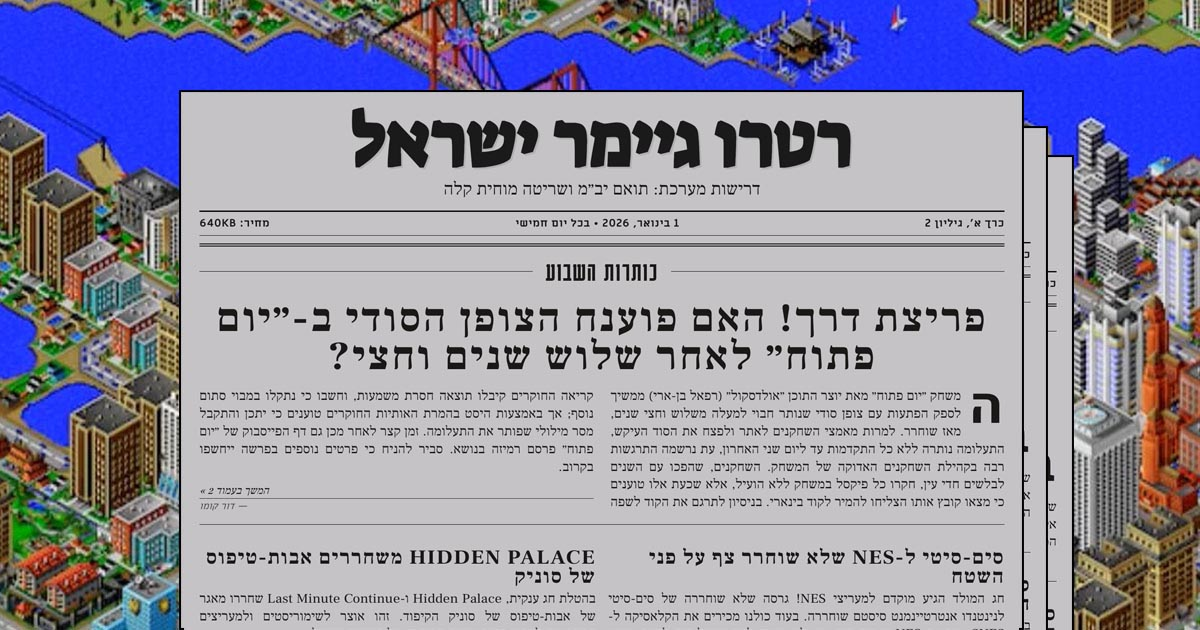
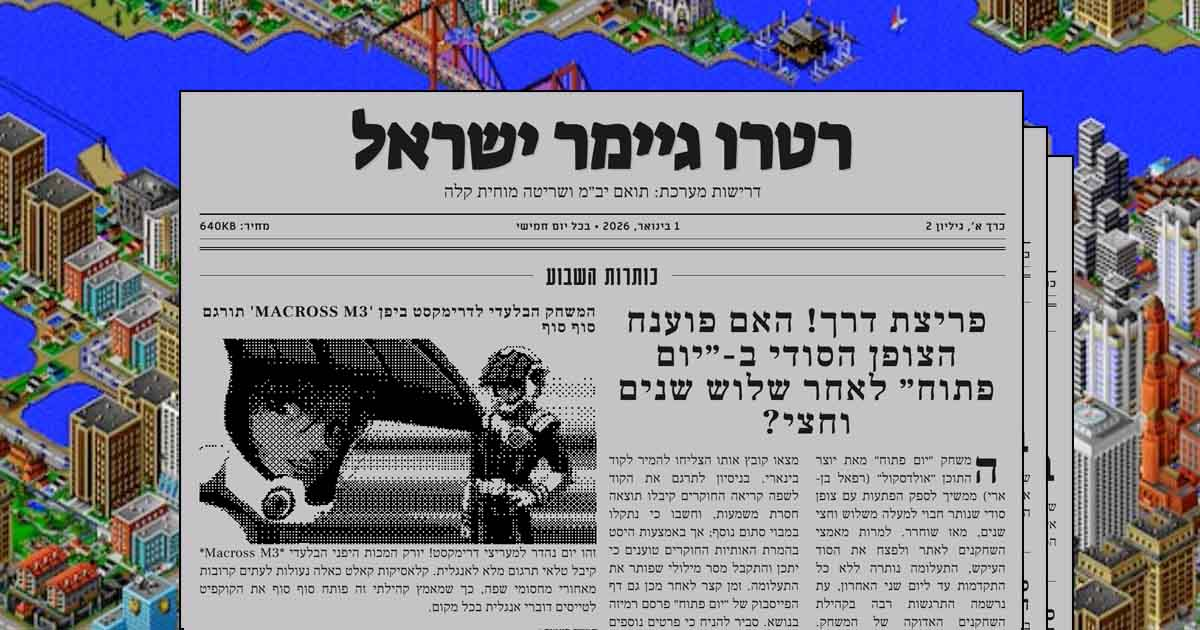
Update

Changed region(s): [[0.1542, 0.4825, 0.8633, 1.0], [0.1542, 0.181, 0.8325, 0.4524]]

diff --git a/docs/index.html b/docs/index.html
@@ -64,7 +64,10 @@
 
                 <article class="scoop-item">
                     <h3>סים-סיטי ל-NES שלא שוחרר צף על פני השטח</h3>
-                    <p>חג המולד הגיע מוקדם למעריצי NES! גרסה שלא שוחררה של סים-סיטי לנינטנדו אנטרטיינמנט סיסטם שוחררה. בעוד כולנו מכירים את הקלאסיקה ל-SNES, פורט ה-NES האבוד הזה נותן לנו הצצה למה שיכול היה להיות תכנון ערים ב-8 ביט.</p>
+                    <p>
[1 lines of base64/hex data omitted]
+                    style="width:60%; height:auto; float: right; image-rendering:pixelated; mix-blend-mode:darken; margin-left: 10px;">
+                    חג המולד הגיע מוקדם למעריצי NES! גרסה שלא שוחררה של סים-סיטי לנינטנדו אנטרטיינמנט סיסטם שוחררה. בעוד כולנו מכירים את הקלאסיקה ל-SNES, פורט ה-NES האבוד הזה נותן לנו הצצה למה שיכול היה להיות תכנון ערים ב-8 ביט.</p>
                     <a href="https://www.oldschoolgamermagazine.com/merry-xmas-nes-fans-heres-an-unreleased-version-of-simcity/" class="source-link">המשך בעמוד 5 &raquo;</a>
                     <span class="reporter">— עמי גסידי</span>
                 </article>
@@ -81,14 +84,23 @@
                     <p>טקס הפרסים השנתי של ״יאללה בלאגן״ מגיע לישורת האחרונה. המנחים מצחצחים את הפרסים והגולשים מצביעים כאחוזי טירוף בקטגוריות השונות. זוהי הזדמנות אחרונה להצביע ולהשפיע.</p>
                     <a href="https://docs.google.com/forms/d/e/1FAIpQLSe47f4Y5_fYlO5mT0VXvzyYrnOwFQLnmFC-Edo3laUuN7sHMQ/viewform" class="source-link">המשך בעמוד 9 &raquo;</a>
                     <span class="reporter">— עמי גסידי</span>
-                </article>                
-                
+                </article>            
+
                  <article class="scoop-item">
                     <h3>להיט האימה 'P.T.' מגיע לקומודור 64</h3>
                     <p>ב-Demake מפתיע, הטיזר המבוטל של Silent Hills, הלא הוא 'P.T.', דומיין מחדש עבור הקומודור 64 על ידי המפתח Haplo. חוו את מסדרון האימה ב-8 ביט.</p>
                     <a href="https://www.oldschoolgamermagazine.com/p-t-haplos-horror-game-released-for-the-commodore-64/" class="source-link">המשך בעמוד 8 &raquo;</a>
                     <span class="reporter">— עמי גסידי</span>
                 </article>
+
+                <article class="scoop-item">
+                    <h3>המשחק הבלעדי לדרימקסט ביפן 'Macross M3' תורגם סוף סוף</h3>
[1 lines of base64/hex data omitted]
+                    style="width:100%; height:auto; display:block; image-rendering:pixelated; mix-blend-mode:darken;">
+                    <p>זהו יום נהדר למעריצי דרימקסט! יורק המכות היפני הבלעדי *Macross M3* קיבל טלאי תרגום מלא לאנגלית. קלאסיקות קאלט כאלה נעולות לעתים קרובות מאחורי מחסומי שפה, כך שמאמץ קהילתי זה פותח סוף סוף את הקוקפיט לטייסים דוברי אנגלית בכל מקום.</p>
+                    <a href="https://www.timeextension.com/news/2025/12/japan-dreamcast-exclusive-macross-m3-gets-an-english-translation" class="source-link">המשך בעמוד 4 &raquo;</a>
+                    <span class="reporter">— דור קומו</span>
+                </article>    
 
                 <article class="scoop-item">
                     <h3>Roguecraft DX הוכרז לאמיגה, Mega65 וגיימבוי קולור</h3>
@@ -101,13 +113,6 @@
                     <h3>שעוני Xbox 360 "פגי תוקף" באופן רשמי</h3>
                     <p>בטוויסט ביזארי בסגנון באג 2000, משתמשים גילו שלוח השנה של מערכת ה-Xbox 360 לא ניתן להגדרה מעבר ל-31 בדצמבר, 2025. בעוד הקונסולה עדיין מתפקדת, הגבלה מקודדת זו מסמנת "סוף עידן" מוחשי למערכת בת ה-20 שנה כשהיא עוברת רשמית לסטטוס וינטג'.</p>
                     <a href="https://www.purexbox.com/news/2025/12/xbox-360-user-shows-whatll-happen-when-it-reaches-date-limit-on-december-31st-2025" class="source-link">המשך בעמוד 3 &raquo;</a>
-                    <span class="reporter">— דור קומו</span>
-                </article>
-
-                <article class="scoop-item">
-                    <h3>המשחק הבלעדי לדרימקסט ביפן 'Macross M3' תורגם סוף סוף</h3>
-                    <p>זהו יום נהדר למעריצי דרימקסט! יורק המכות היפני הבלעדי *Macross M3* קיבל טלאי תרגום מלא לאנגלית. קלאסיקות קאלט כאלה נעולות לעתים קרובות מאחורי מחסומי שפה, כך שמאמץ קהילתי זה פותח סוף סוף את הקוקפיט לטייסים דוברי אנגלית בכל מקום.</p>
-                    <a href="https://www.timeextension.com/news/2025/12/japan-dreamcast-exclusive-macross-m3-gets-an-english-translation" class="source-link">המשך בעמוד 4 &raquo;</a>
                     <span class="reporter">— דור קומו</span>
                 </article>
 

diff --git a/docs/styles-heb.css b/docs/styles-heb.css
@@ -157,17 +157,22 @@ h2 span {
 
 /* --- SCOOPS (Front Page) --- */
 .scoop-grid {
-    display: grid;
-    grid-template-columns: 1fr 1fr; /* Symmetric grid */
-    gap: 15px;
+    column-count: 2;
+    column-gap: 15px;
     border-bottom: 2px solid var(--border-black);
     padding-bottom: 15px;
     margin-bottom: 15px;
 }
 
+.scoop-item {
+    break-inside: avoid;
+    margin-bottom: 15px;
+}
+
+
 /* The Lead Story */
 .scoop-item:first-child {
-    grid-column: 1 / -1;
+   /* column-span: all; */
     column-count: 2; /* Split lead story into 2 columns */
     column-gap: 20px;
     column-rule: none;
@@ -178,25 +183,24 @@ h2 span {
 
 .scoop-item:first-child h3 {
     column-span: all;
-    font-size: 3.2rem;
+    font-size: 2.8rem;
     text-align: center;
     margin-bottom: 15px;
 }
 
-/* Drop Cap adjustment for RTL */
 .scoop-item:first-child p:first-of-type::first-letter {
-    float: right; 
-    font-size: 4rem;
+    float: right;
+    font-size: 3.5rem;
     line-height: 0.8;
-    padding-left: 10px; 
-    padding-right: 2px; 
-    font-family: var(--item-font);
-    font-weight: 700;
+    padding-right: 8px;
+    padding-left: 2px;
+    font-family: var(--headline-font);
+    font-weight: 900;
 }
 
 /* Other scoops */
 .scoop-item h3 {
-    font-size: 1.6rem;
+    font-size: 1.25rem;
     margin-bottom: 5px;
 }
 
@@ -205,7 +209,7 @@ h2 span {
     margin-top: 5px;
     font-style: italic;
     font-size: 0.85rem;
-    text-align: left; 
+    text-align: right;
 }
 
 .reporter {
